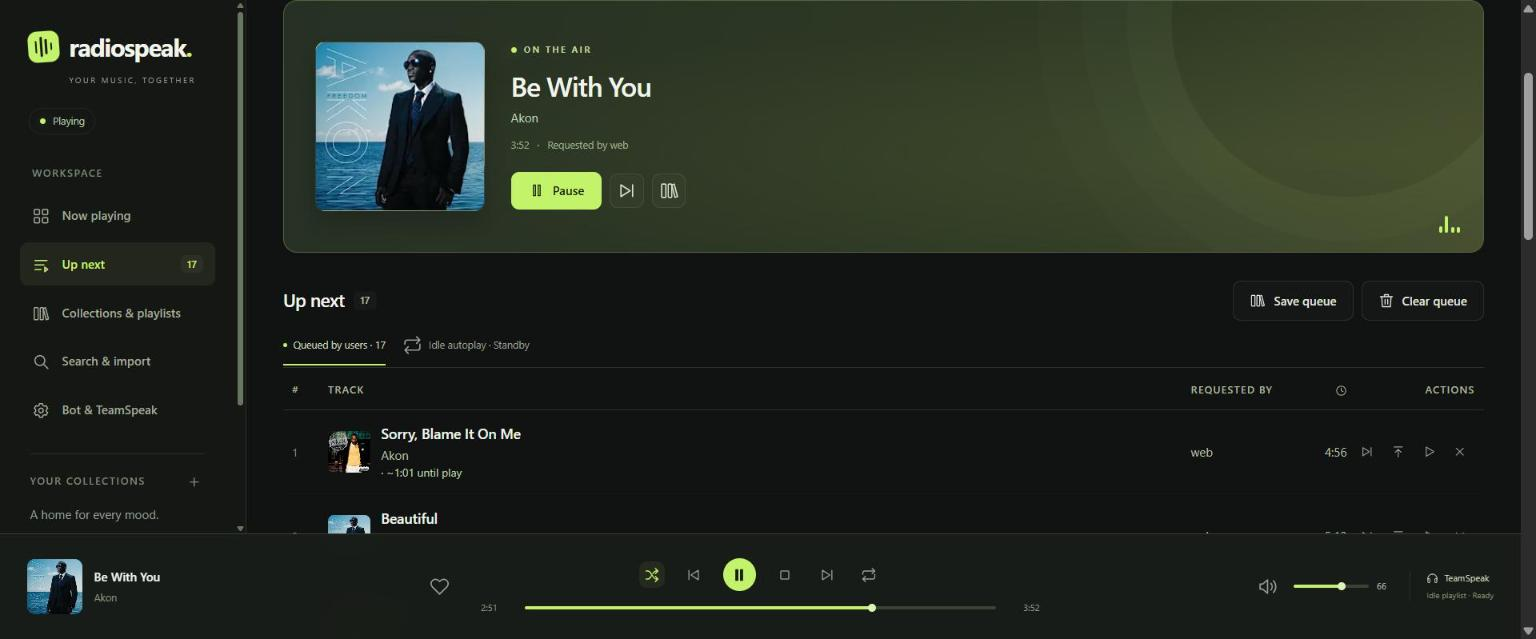
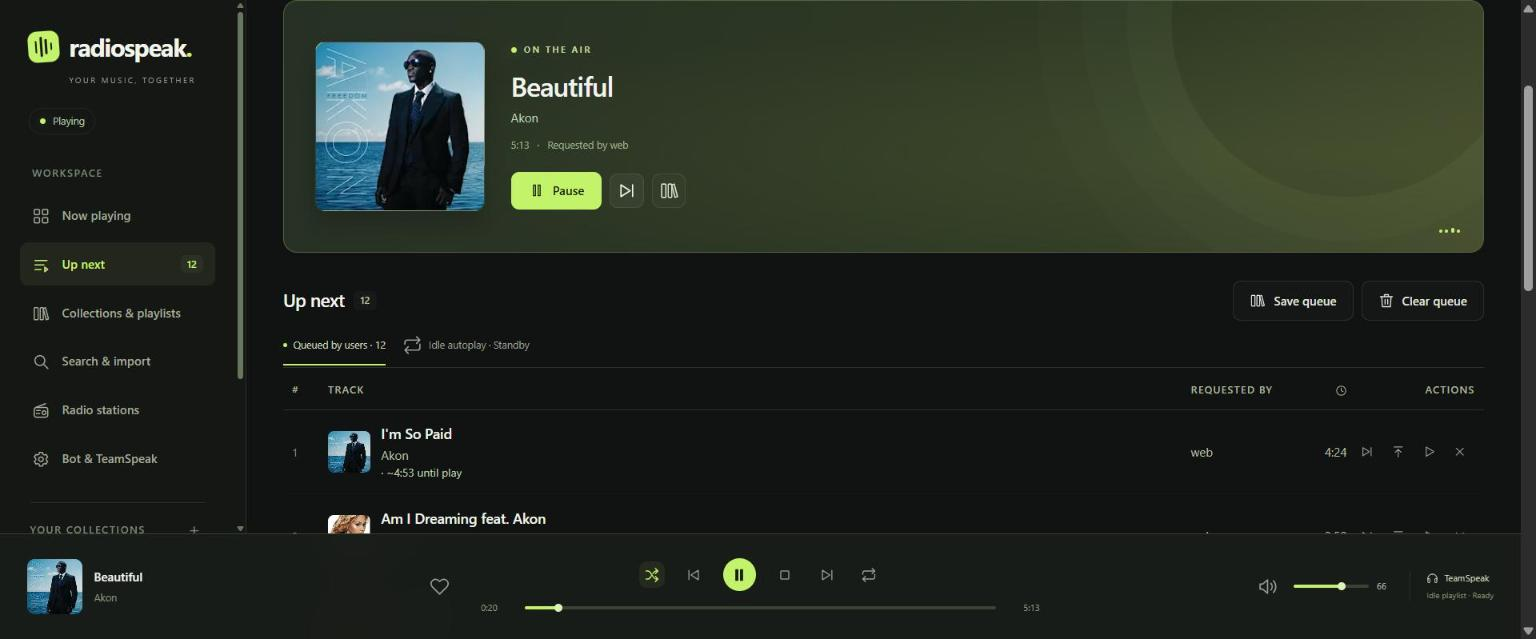
Update README screenshots with radio stations and playlist Play now

diff --git a/README.md b/README.md
@@ -47,7 +47,15 @@ radiospeak joins your TeamSpeak server as a regular voice client and streams mus
   </tr>
   <tr>
     <td align="center"><sub>Search YouTube and SoundCloud</sub></td>
-    <td align="center"><sub>Playlist detail with idle playlist</sub></td>
+    <td align="center"><sub>Play now, add to queue or set as idle playlist</sub></td>
+  </tr>
+  <tr>
+    <td><img src="docs/screenshots/radio.jpg" alt="Radio stations"></td>
+    <td><img src="docs/screenshots/settings.jpg" alt="Bot and TeamSpeak settings"></td>
+  </tr>
+  <tr>
+    <td align="center"><sub>Saved radio stations</sub></td>
+    <td align="center"><sub>Channel, playback and idle playlist per bot</sub></td>
   </tr>
 </table>
 
